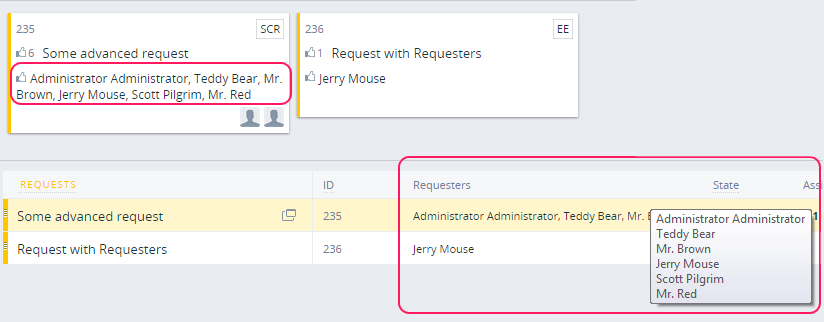
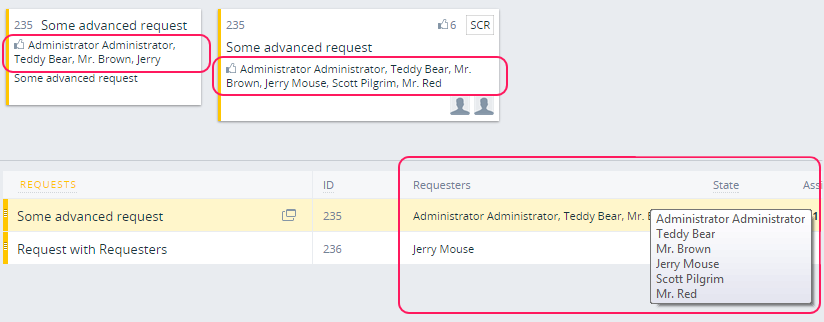
Update styles

Changed region(s): [[0.0, 0.0, 0.6978, 0.4348], [0.5158, 0.0311, 0.6068, 0.1242], [0.6675, 0.0621, 0.6978, 0.0932]]

diff --git a/Requesters on Board and List/RequestersOnBoard.js b/Requesters on Board and List/RequestersOnBoard.js
@@ -10,7 +10,7 @@ tau.mashups
         var units = [
             {
                 id: 'request_requesters',
-                classId: 'tau-board-unit_type_entity-name-extended',
+                classId: 'tau-board-unit_type_entity-name-extended-small',
                 hideIf: function(data) {
                     return !data.requesters || !data.requesters.length;
                 },
@@ -19,12 +19,12 @@ tau.mashups
                 types: [
                     types.REQUEST
                 ],
-                sections: 2,
+                sections: 1,
                 sizes: [sizes.S, sizes.M, sizes.L, sizes.XL],
                 template: [
-                    '<div class="tau-board-unit__value tau-name i-role-name">',
-                    '<span class="tau-board-unit_type_requesters-counter" style="position: relative; top: 2px;"></span>',
-                    '<span style="padding-left:2px;"><%! _.pluck(this.data.requesters, "fullName").join(", ")%></span>',
+                    '<div class="tau-board-unit__value">',
+                       '<span class="tau-board-unit_type_requesters-counter" style="position: relative; top: -4px;"></span>',
+                       '<span style="padding-left:2px;position: relative;top: -7px;"><%! _.pluck(this.data.requesters, "fullName").join(", ")%></span>',
                     '</div>'
                 ],
                 sampleData: {
